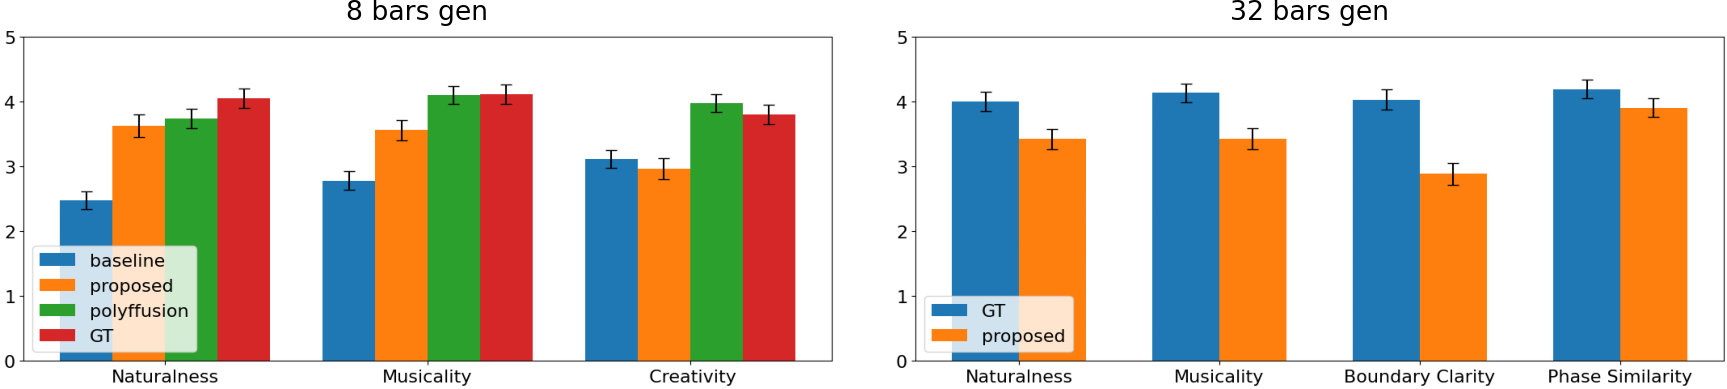
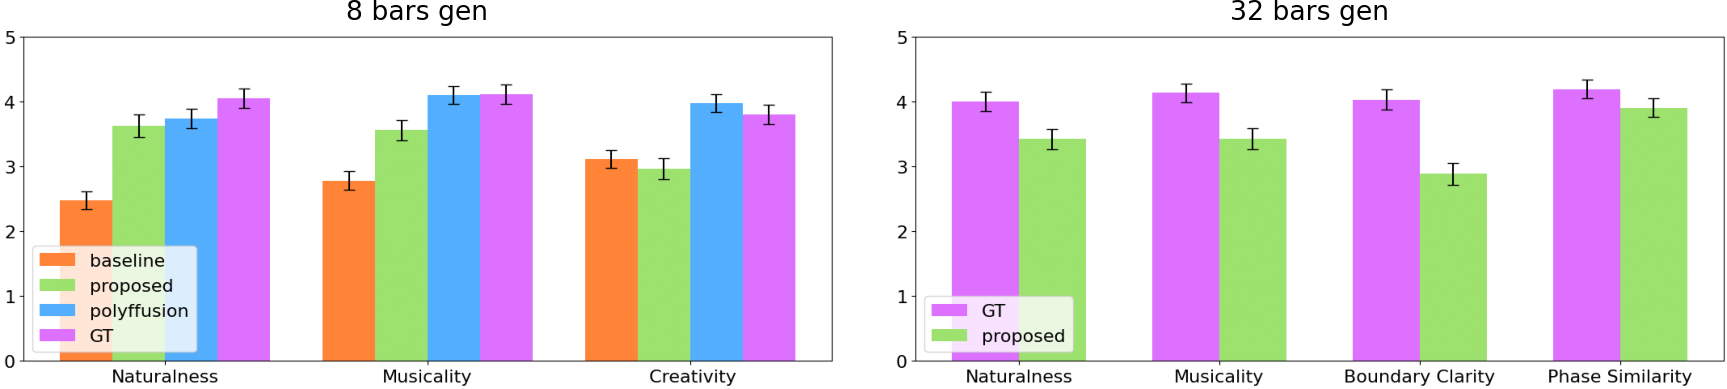
システムごとの色をとういつ

diff --git a/results/analysis.py b/results/analysis.py
@@ -17,6 +17,8 @@ SYSTEM_NAMES = {
     "hu": "GT",
 }
 
+SYSTEM_COLORS = {"ba": "#FF8437", "pr": "#9DE16F", "po": "#53AFFE", "hu": "#DE70FF"}
+
 QUESTION_NAMES = {
     "mos1": ["Naturalness", "Musicality", " Creativity"],
     "mos2": ["Naturalness", "Musicality", "Boundary Clarity", "Phase Similarity"],
@@ -99,6 +101,7 @@ def graph(grouped_values, filename, type_="mos1"):
             yerr=confidence_intervals_upper[:, i] - means[:, i],  # 95%信頼区間
             capsize=5,
             label=SYSTEM_NAMES[list(grouped_values.keys())[i]],
+            color=SYSTEM_COLORS[list(grouped_values.keys())[i]],
         )
 
     # ラベルとタイトルを設定
